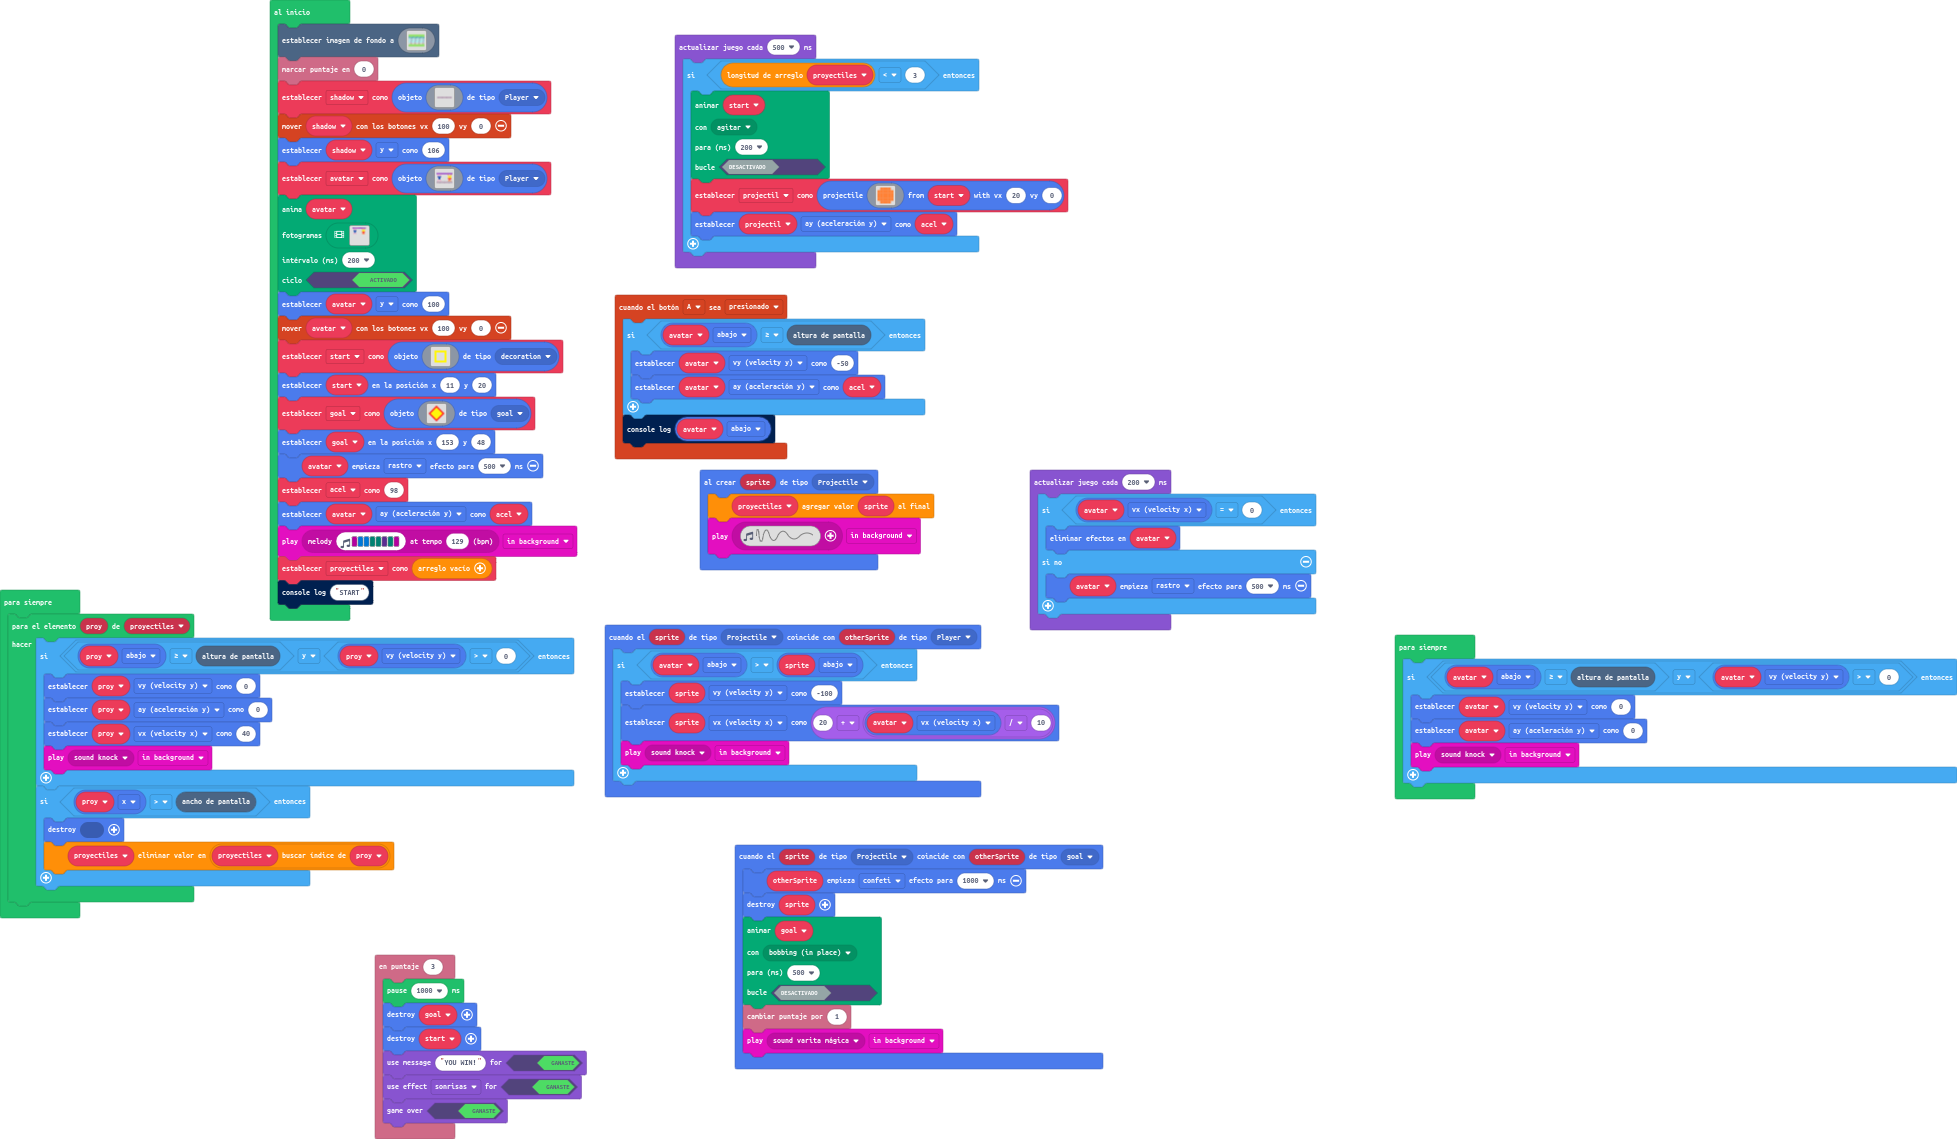
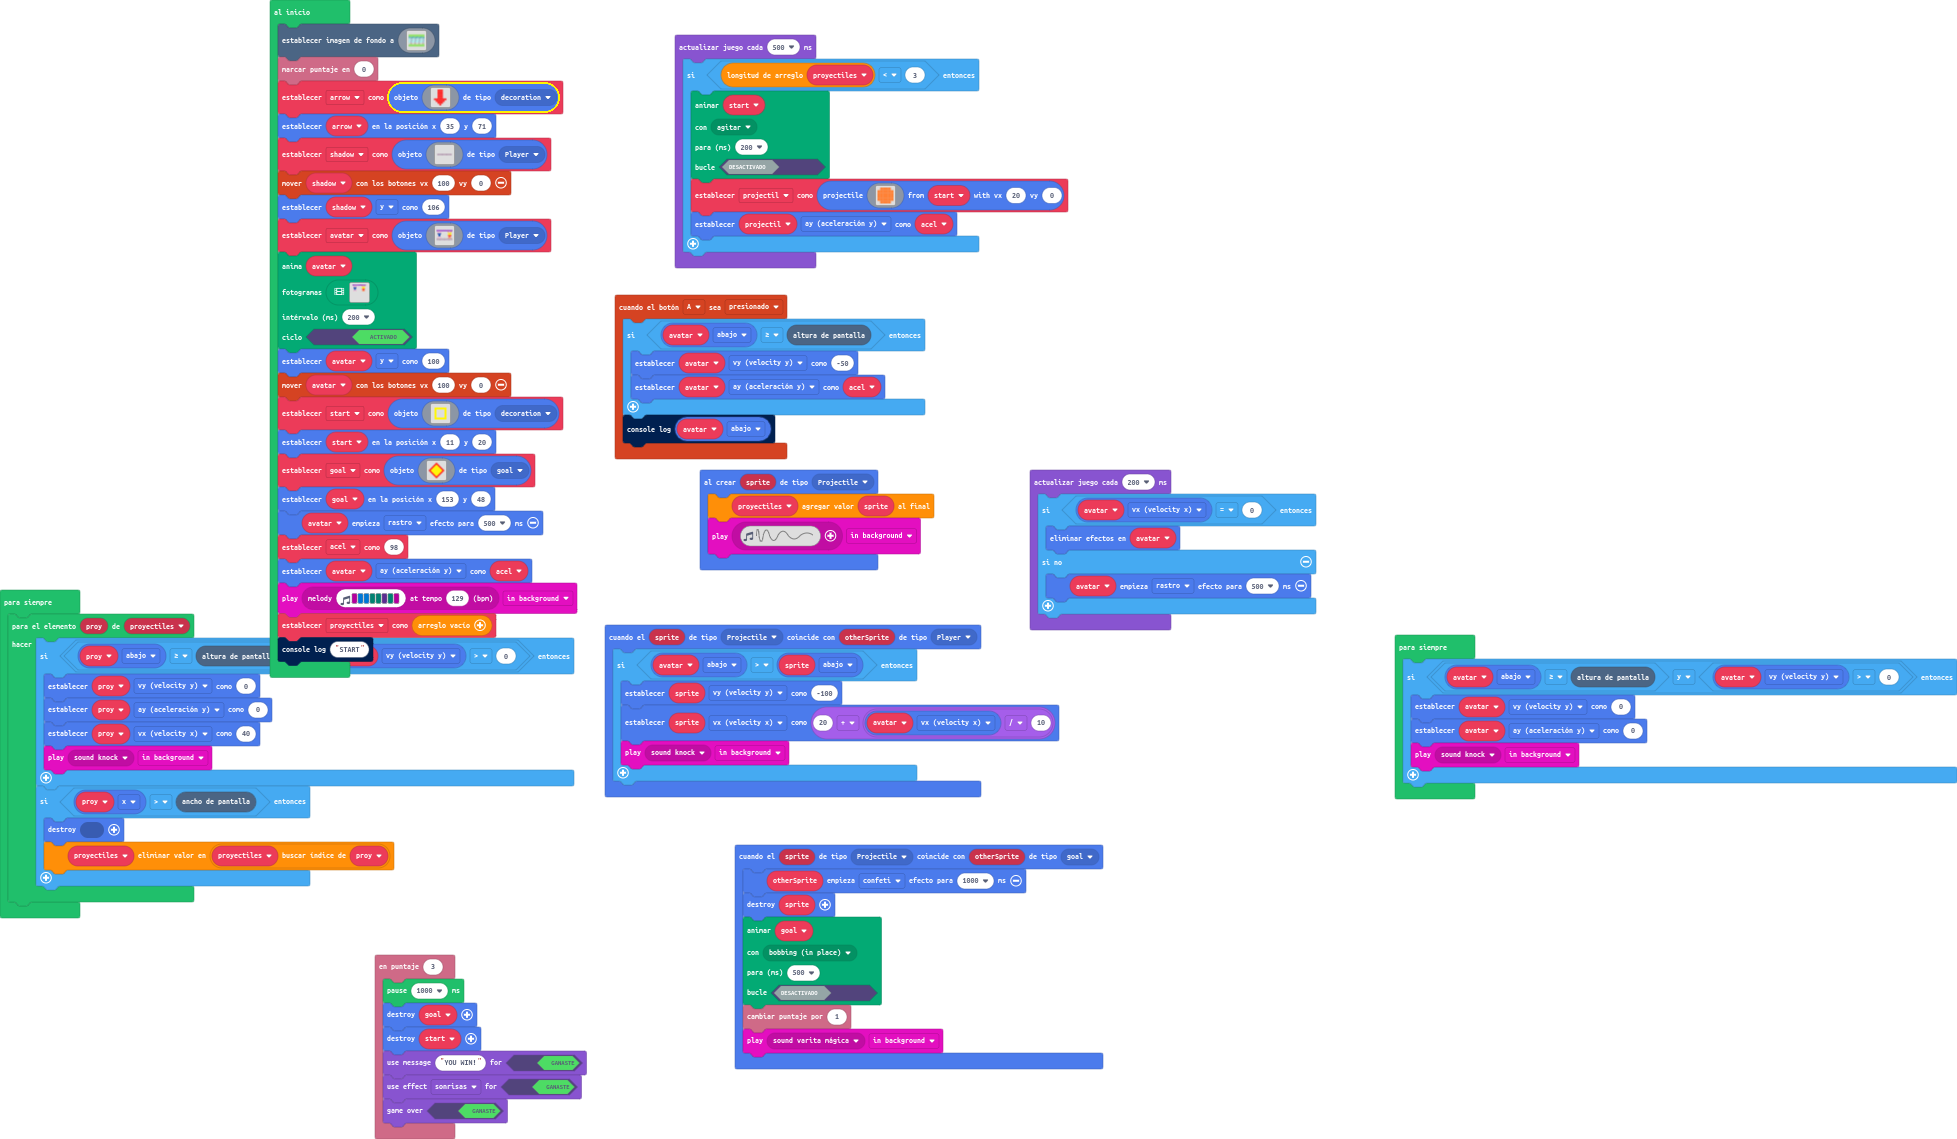
Actualizar main.blocks, main.ts, images.g.jres, images.g.ts

Changed region(s): [[0.1247, 0.0615, 0.3117, 0.6146]]

diff --git a/images.g.ts b/images.g.ts
@@ -179,6 +179,18 @@ b.b.b.b.b.b.b.b.b.b.b.b.b
 . b . b . b . b . b . b . b . b . b . b . b . b . 
 . . b . b . b . b . b . b . b . b . b . b . b . . 
 `;
+            case "image3":
+            case "arrow":return img`
+. . 2 2 2 . . 
+. . 2 2 2 . . 
+. . 2 2 2 . . 
+. . 2 2 2 . . 
+. . 2 2 2 . . 
+2 2 2 2 2 2 2 
+. 2 2 2 2 2 . 
+. . 2 2 2 . . 
+. . . 2 . . . 
+`;
         }
         return null;
     })
@@ -256,7 +268,7 @@ aaaaaaaaaaaaaaaaaaaaaaaaa
     helpers._registerFactory("song", function(name: string) {
         switch(helpers.stringTrim(name)) {
             case "song1":
[2 lines of base64/hex data omitted]
         }
         return null;
     })

diff --git a/main.ts b/main.ts
@@ -48,6 +48,8 @@ let start: Sprite = null
 let avatar: Sprite = null
 scene.setBackgroundImage(assets.image`background`)
 info.setScore(0)
+let arrow = sprites.create(assets.image`arrow`, SpriteKind.decoration)
+arrow.setPosition(35, 71)
 let shadow = sprites.create(assets.image`shadow`, SpriteKind.Player)
 controller.moveSprite(shadow, 100, 0)
 shadow.y = 106
